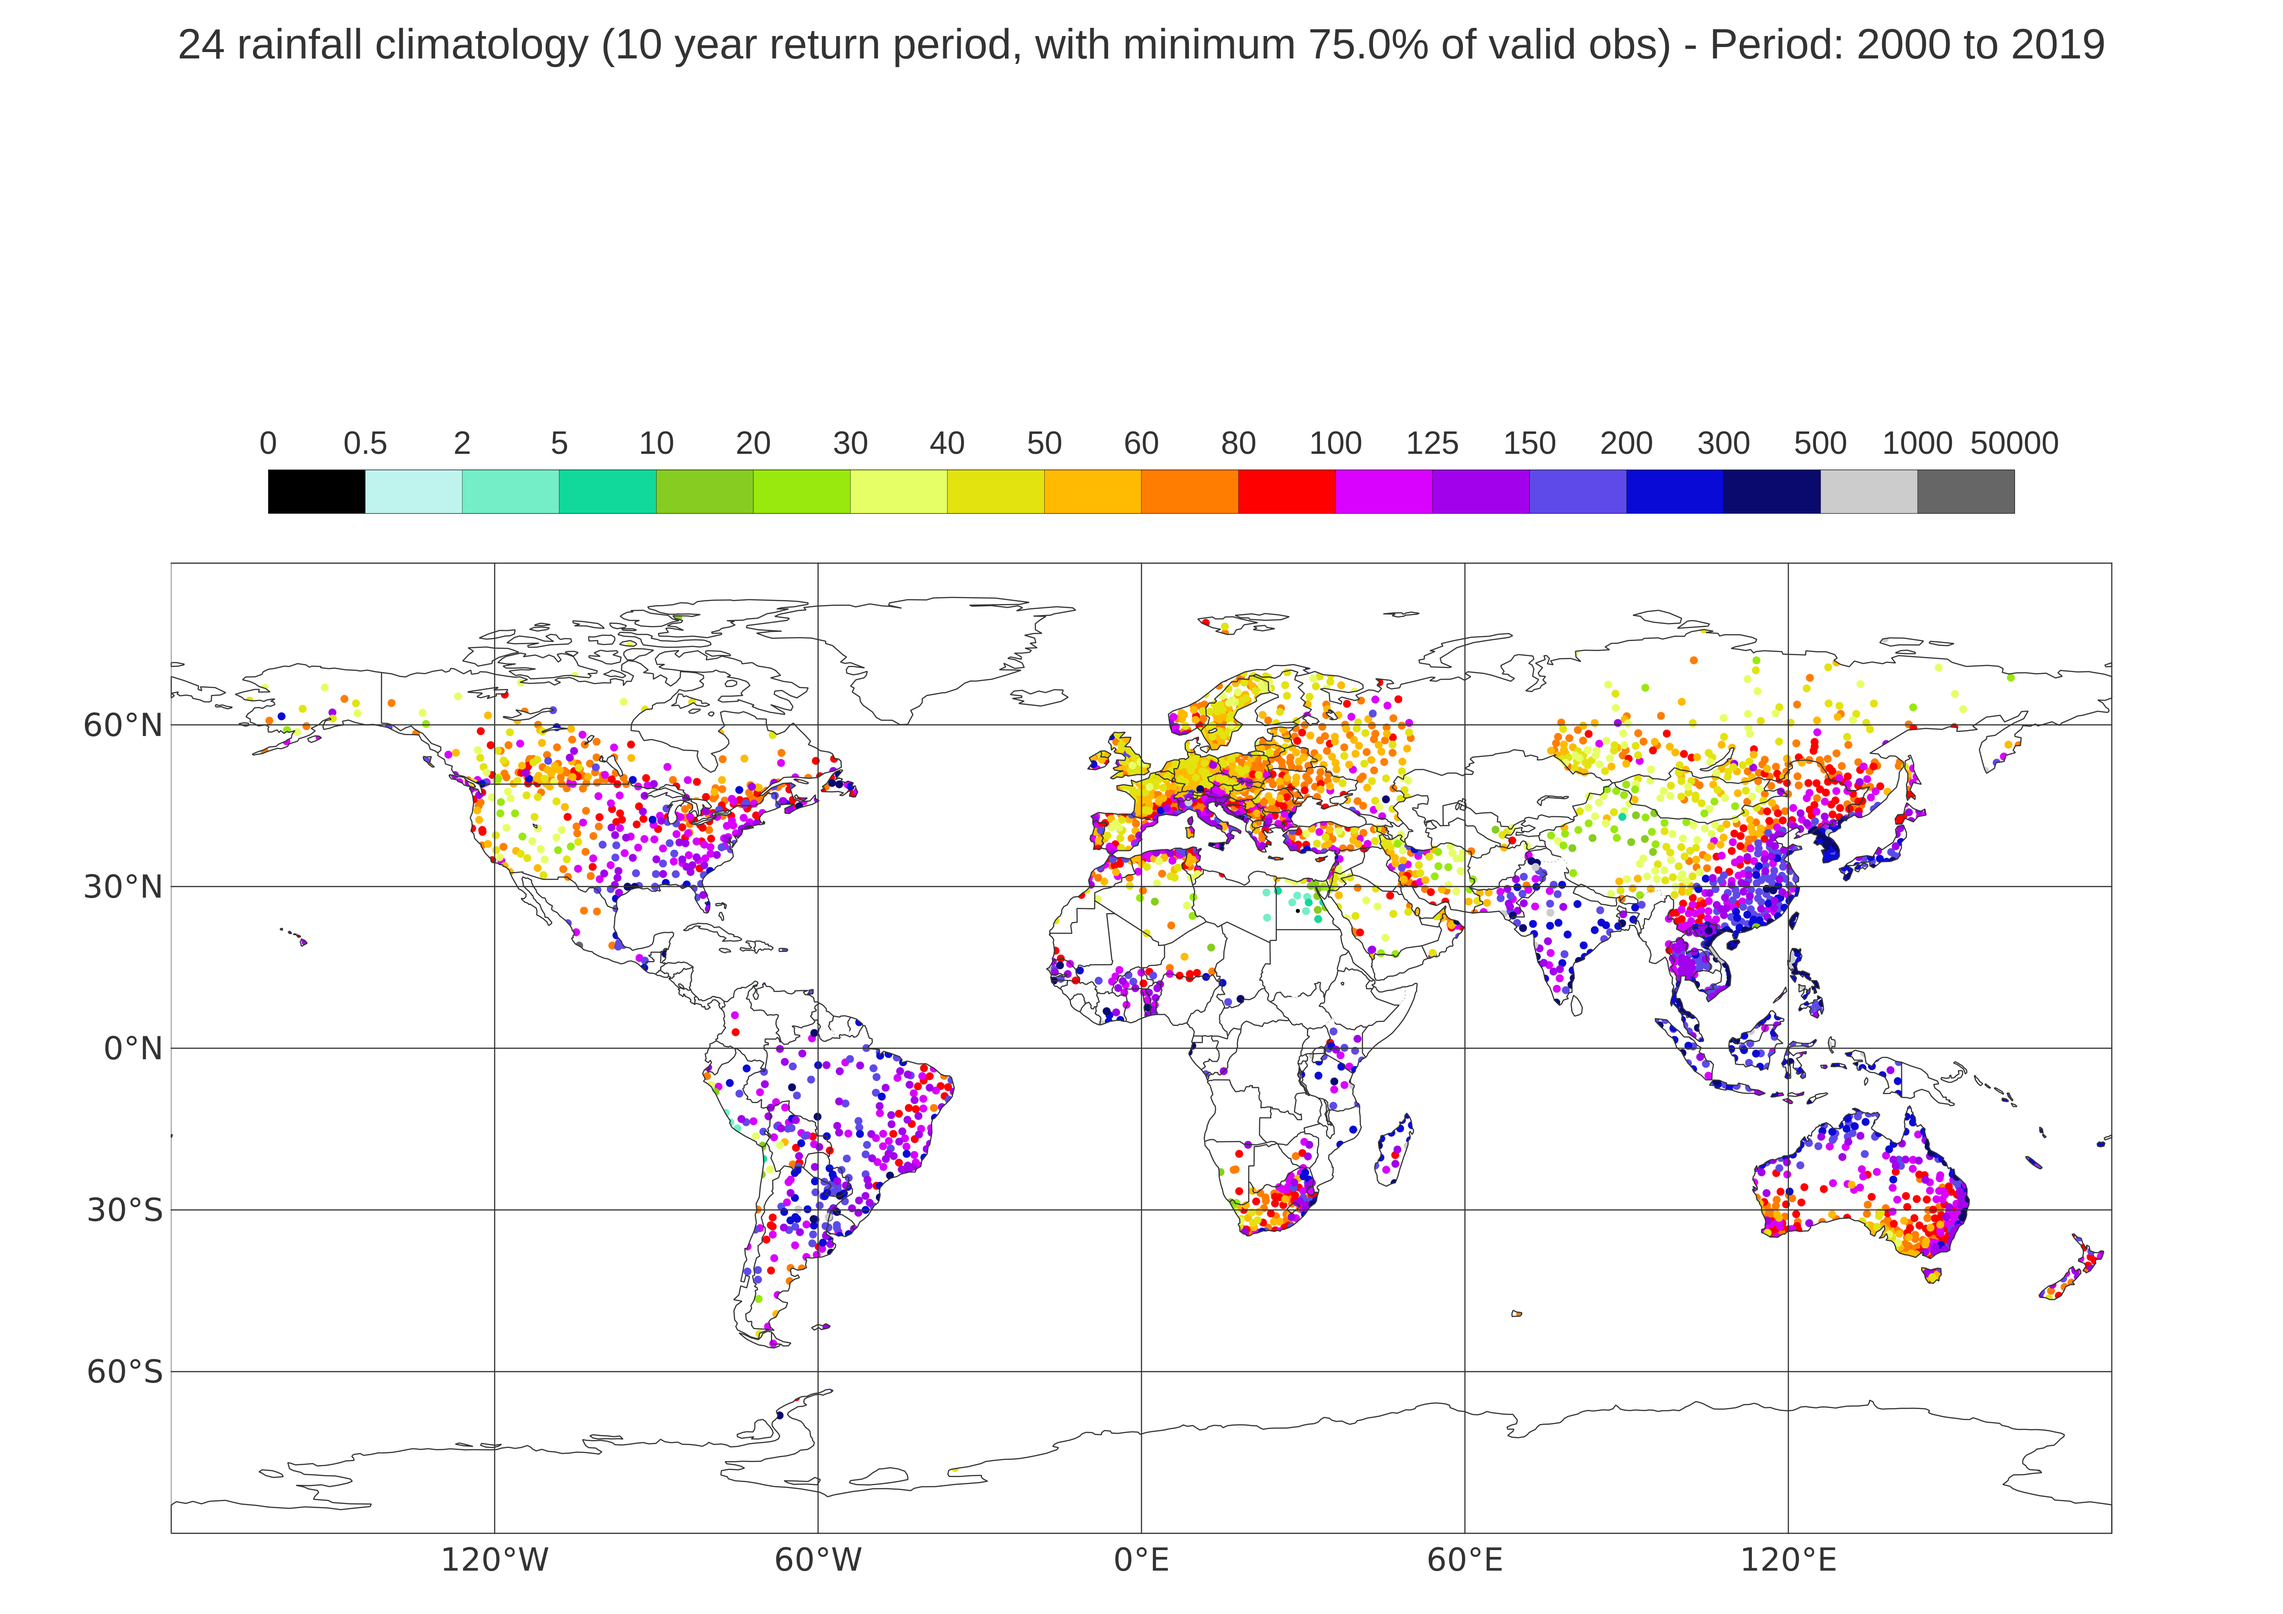
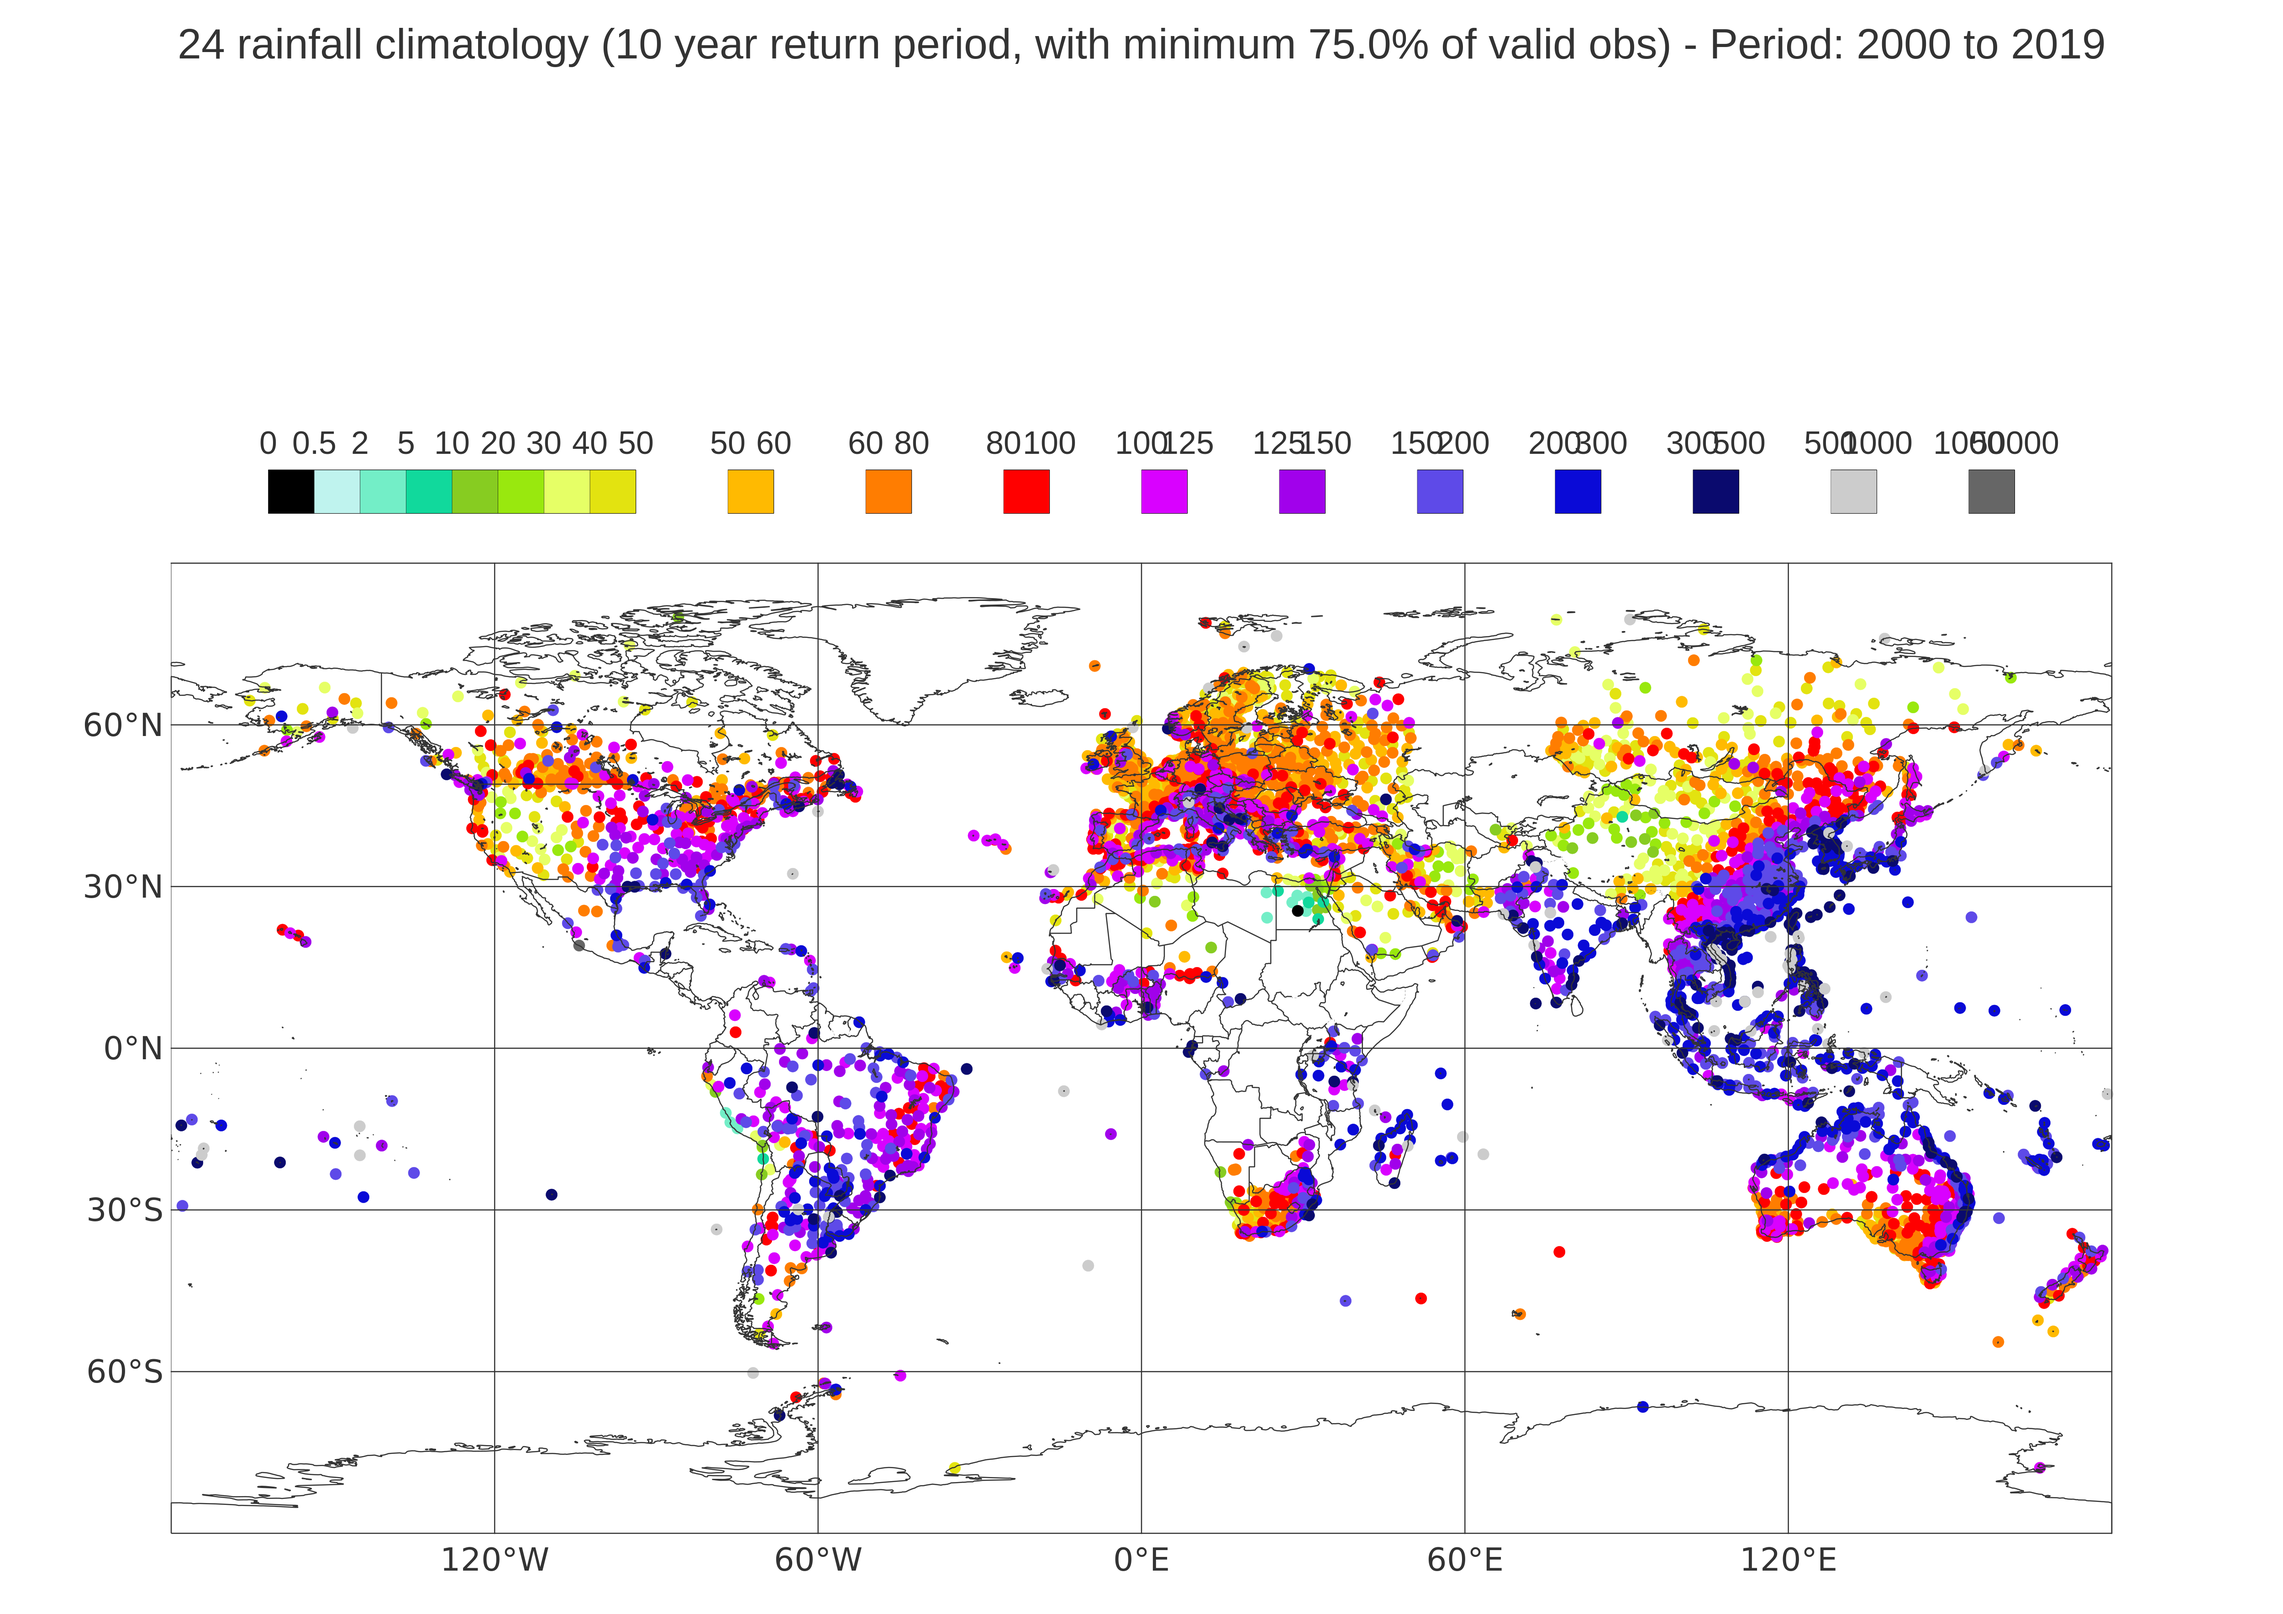
Improved the plots of the rainfall climatolgies with the biggest rainfall totals at the top.

diff --git a/Scripts/Processed/13_Plot_Climate_OBS.py b/Scripts/Processed/13_Plot_Climate_OBS.py
@@ -69,9 +69,7 @@ for ind_RP in range(len(RP_2_Plot_list)):
         coastlines = mv.mcoast(
             map_coastline_colour = "charcoal",
             map_coastline_thickness = 5,
-            map_coastline_resolution = "low",
-            map_coastline_sea_shade = "on", # comments this line to see the rainfall totals over the sea
-            map_coastline_sea_shade_colour = "white", # # comments this line to see the rainfall totals over the sea
+            map_coastline_resolution = "medium",
             map_boundaries = "on",
             map_boundaries_colour = "charcoal",
             map_boundaries_thickness = 5,
@@ -86,16 +84,136 @@ for ind_RP in range(len(RP_2_Plot_list)):
             map_label_height = 3
             )
 
-        markers = mv.psymb(
+        markers_small = mv.psymb(
             symbol_type = "MARKER",
             symbol_table_mode = "ON",
             legend = "ON",
             symbol_quality = "HIGH",
-            symbol_min_table = [ 0,0.5,2,5,10,20,30,40,50,60,80,100,125,150,200,300,500, 1000],
-            symbol_max_table = [ 0.5,2,5,10,20,30,40,50,60,80,100,125,150,200,300,500,1000, 50000],
-            symbol_marker_table = [ 15,15,15,15,15,15,15,15,15,15,15,15,15,15,15,15,15],
-            symbol_colour_table = ["black","RGB(0.75,0.95,0.93)","RGB(0.45,0.93,0.78)","RGB(0.07,0.85,0.61)","RGB(0.53,0.8,0.13)","RGB(0.6,0.91,0.057)","RGB(0.9,1,0.4)","RGB(0.89,0.89,0.066)","RGB(1,0.73,0.0039)","RGB(1,0.49,0.0039)","red","RGB(0.85,0.0039,1)","RGB(0.63,0.0073,0.92)","RGB(0.37,0.29,0.91)","RGB(0.04,0.04,0.84)","RGB(0.042,0.042,0.43)","RGB(0.8,0.8,0.8)","RGB(0.4,0.4,0.4)"],
-            symbol_height_table = [ 0.1,0.2,0.2,0.2,0.2,0.2,0.2,0.2,0.2,0.2,0.2,0.2,0.2,0.2,0.2,0.2,0.2]
+            symbol_min_table = [0,0.5,2,5,10,20,30,40],
+            symbol_max_table = [0.5,2,5,10,20,30,40,50],
+            symbol_marker_table = [15,15,15,15,15,15,15,15],
+            symbol_colour_table = ["black","RGB(0.75,0.95,0.93)","RGB(0.45,0.93,0.78)","RGB(0.07,0.85,0.61)","RGB(0.53,0.8,0.13)","RGB(0.6,0.91,0.057)","RGB(0.9,1,0.4)","RGB(0.89,0.89,0.066)"],
+            symbol_height_table = [ 0.3,0.3,0.3,0.3,0.3,0.3,0.3,0.3]
+            )
+        
+        markers_50 = mv.psymb( # we want to make sure that the biggest totals are plot on top
+            symbol_type = "MARKER",
+            symbol_table_mode = "ON",
+            legend = "ON",
+            symbol_quality = "HIGH",
+            symbol_min_table = [50],
+            symbol_max_table = [60],
+            symbol_marker_table = [15],
+            symbol_colour_table = ["RGB(1,0.73,0.0039)"],
+            symbol_height_table = [0.3]
+            )
+        
+        markers_60 = mv.psymb(
+            symbol_type = "MARKER",
+            symbol_table_mode = "ON",
+            legend = "ON",
+            symbol_quality = "HIGH",
+            symbol_min_table = [60],
+            symbol_max_table = [80],
+            symbol_marker_table = [15],
+            symbol_colour_table = ["RGB(1,0.49,0.0039)"],
+            symbol_height_table = [0.3]
+            )
+        
+        markers_80 = mv.psymb(
+            symbol_type = "MARKER",
+            symbol_table_mode = "ON",
+            legend = "ON",
+            symbol_quality = "HIGH",
+            symbol_min_table = [80],
+            symbol_max_table = [100],
+            symbol_marker_table = [15],
+            symbol_colour_table = ["red"],
+            symbol_height_table = [0.3]
+            )
+        
+        markers_100 = mv.psymb(
+            symbol_type = "MARKER",
+            symbol_table_mode = "ON",
+            legend = "ON",
+            symbol_quality = "HIGH",
+            symbol_min_table = [100],
+            symbol_max_table = [125],
+            symbol_marker_table = [15],
+            symbol_colour_table = ["RGB(0.85,0.0039,1)"],
+            symbol_height_table = [0.3]
+            )
+        
+        markers_125 = mv.psymb(
+            symbol_type = "MARKER",
+            symbol_table_mode = "ON",
+            legend = "ON",
+            symbol_quality = "HIGH",
+            symbol_min_table = [125],
+            symbol_max_table = [150],
+            symbol_marker_table = [15],
+            symbol_colour_table = ["RGB(0.63,0.0073,0.92)"],
+            symbol_height_table = [0.3]
+            )
+        
+        markers_150 = mv.psymb(
+            symbol_type = "MARKER",
+            symbol_table_mode = "ON",
+            legend = "ON",
+            symbol_quality = "HIGH",
+            symbol_min_table = [150],
+            symbol_max_table = [200],
+            symbol_marker_table = [15],
+            symbol_colour_table = ["RGB(0.37,0.29,0.91)"],
+            symbol_height_table = [0.3]
+            )
+        
+        markers_200 = mv.psymb(
+            symbol_type = "MARKER",
+            symbol_table_mode = "ON",
+            legend = "ON",
+            symbol_quality = "HIGH",
+            symbol_min_table = [200],
+            symbol_max_table = [300],
+            symbol_marker_table = [15],
+            symbol_colour_table = ["RGB(0.04,0.04,0.84)"],
+            symbol_height_table = [0.3]
+            )
+        
+        markers_300 = mv.psymb(
+            symbol_type = "MARKER",
+            symbol_table_mode = "ON",
+            legend = "ON",
+            symbol_quality = "HIGH",
+            symbol_min_table = [300],
+            symbol_max_table = [500],
+            symbol_marker_table = [15],
+            symbol_colour_table = ["RGB(0.042,0.042,0.43)"],
+            symbol_height_table = [0.3]
+            )
+        
+        markers_500 = mv.psymb(
+            symbol_type = "MARKER",
+            symbol_table_mode = "ON",
+            legend = "ON",
+            symbol_quality = "HIGH",
+            symbol_min_table = [500],
+            symbol_max_table = [1000],
+            symbol_marker_table = [15],
+            symbol_colour_table = ["RGB(0.8,0.8,0.8)"],
+            symbol_height_table = [0.3]
+            )
+        
+        markers_1000 = mv.psymb(
+            symbol_type = "MARKER",
+            symbol_table_mode = "ON",
+            legend = "ON",
+            symbol_quality = "HIGH",
+            symbol_min_table = [1000],
+            symbol_max_table = [50000],
+            symbol_marker_table = [15],
+            symbol_colour_table = ["RGB(0.4,0.4,0.4)"],
+            symbol_height_table = [0.3]
             )
 
         legend = mv.mlegend(
@@ -118,4 +236,4 @@ for ind_RP in range(len(RP_2_Plot_list)):
         # Create plots
         png = mv.png_output(output_width = 5000, output_name = MainDirOUT + "/Climate_" + str(RP) + "RP")
         mv.setoutput(png)
-        mv.plot(climate_RP_geo, coastlines, markers, legend, title)
+        mv.plot(climate_RP_geo, coastlines, markers_small, markers_50, markers_60,markers_80, markers_100, markers_125,  markers_150, markers_200, markers_300, markers_500, markers_1000, legend, title)
